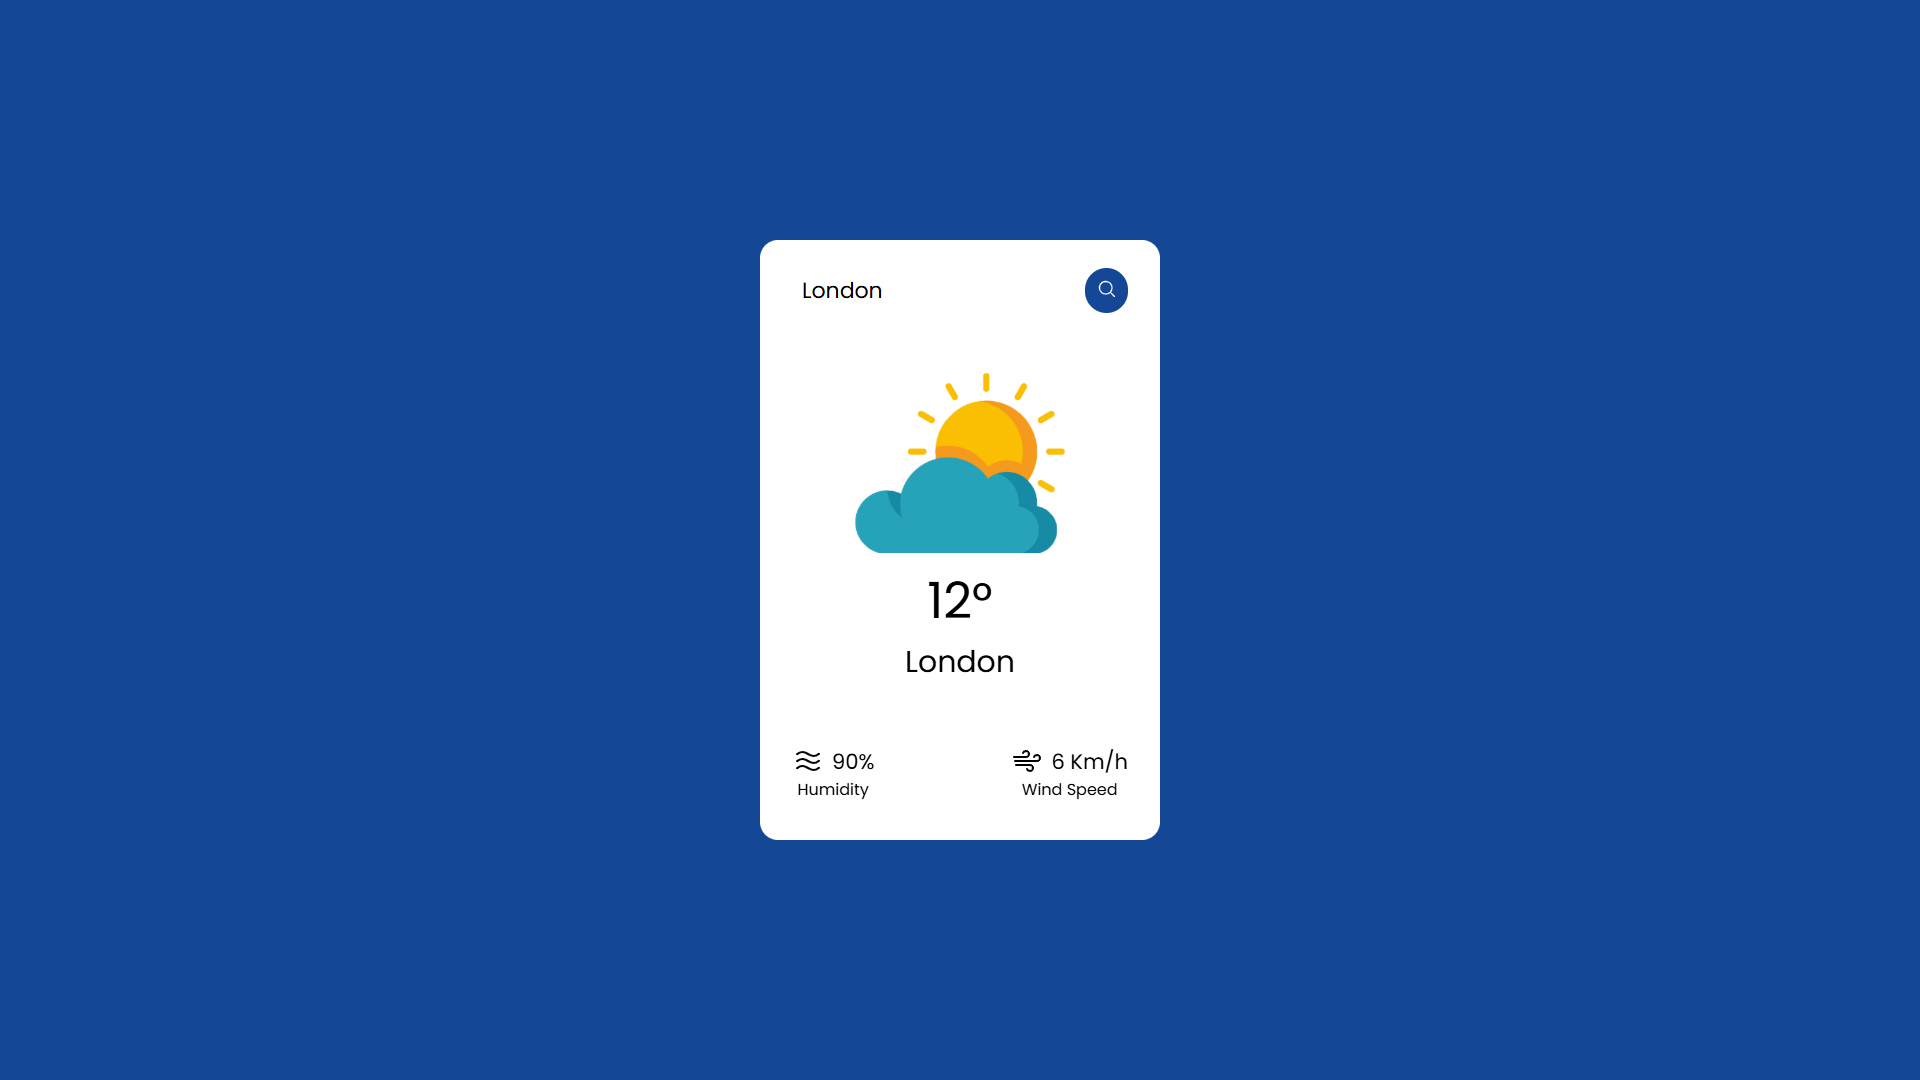
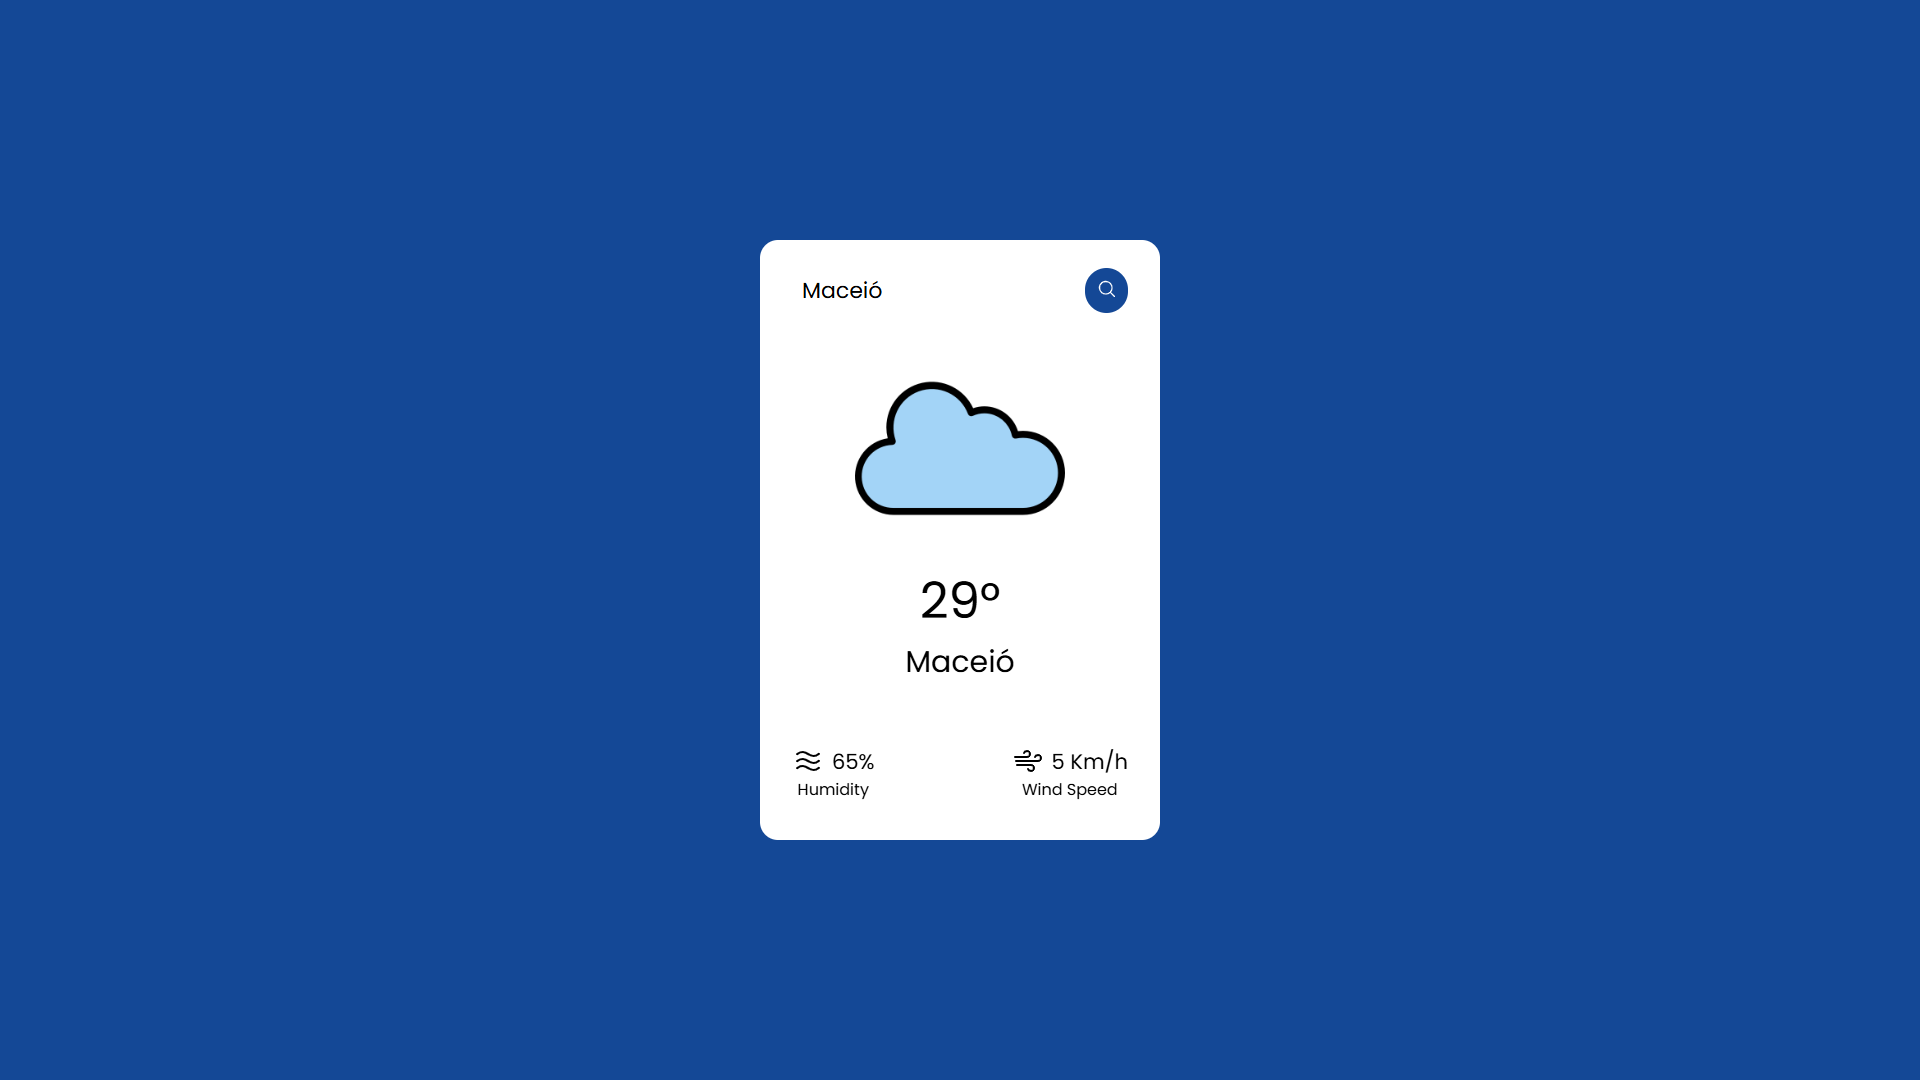
Update public, assets and components folders

Changed region(s): [[0.4375, 0.3361, 0.5625, 0.6417], [0.4062, 0.2444, 0.4688, 0.275], [0.5312, 0.7028, 0.5625, 0.7333]]

diff --git a/src/components/WeatherInformations.jsx b/src/components/WeatherInformations.jsx
@@ -4,31 +4,33 @@ import { Wind, Waves } from "@phosphor-icons/react";
 
 import { useState } from "react";
 
-import clearPNG from "../assets/clear.png";
-import rainPNG from "../assets/rain.png";
+import sunPNG from "../assets/sun.png";
 import cloudPNG from "../assets/cloud.png";
+import rainPNG from "../assets/rain.png";
+import cloudyPNG from "../assets/cloudy.png";
+import stormPNG from "../assets/storm.png";
 import snowPNG from "../assets/snow.png";
-import mistPNG from "../assets/mist.png";
+import mistPNG from "../assets/wind.png";
 import notFoundIcon from "../assets/404.png";
 
 function WeatherInformations() {
   const [weather, setWeather] = useState([]);
 
   const allIcons = {
-    "01d": clearPNG,
-    "01n": clearPNG,
-    "02d": clearPNG,
-    "02n": clearPNG,
+    "01d": sunPNG,
+    "01n": sunPNG,
+    "02d": cloudPNG,
+    "02n": cloudPNG,
     "03d": cloudPNG,
     "03n": cloudPNG,
     "04d": cloudPNG,
     "04n": cloudPNG,
     "09d": rainPNG,
     "09n": rainPNG,
-    "10d": rainPNG,
-    "10n": rainPNG,
-    "11d": rainPNG,
-    "11n": rainPNG,
+    "10d": cloudyPNG,
+    "10n": cloudyPNG,
+    "11d": stormPNG,
+    "11n": stormPNG,
     "13d": snowPNG,
     "13n": snowPNG,
     "50d": mistPNG,
@@ -36,7 +38,7 @@ function WeatherInformations() {
   };
 
   const weatherCity = async (city) => {
-    const APIKey = "";
+    const APIKey = "571e5068ea3cd148b8889844d52273cf";
 
     const response = await fetch(
       `https://api.openweathermap.org/data/2.5/weather?q=${city}&units=metric&appid=${APIKey}`
